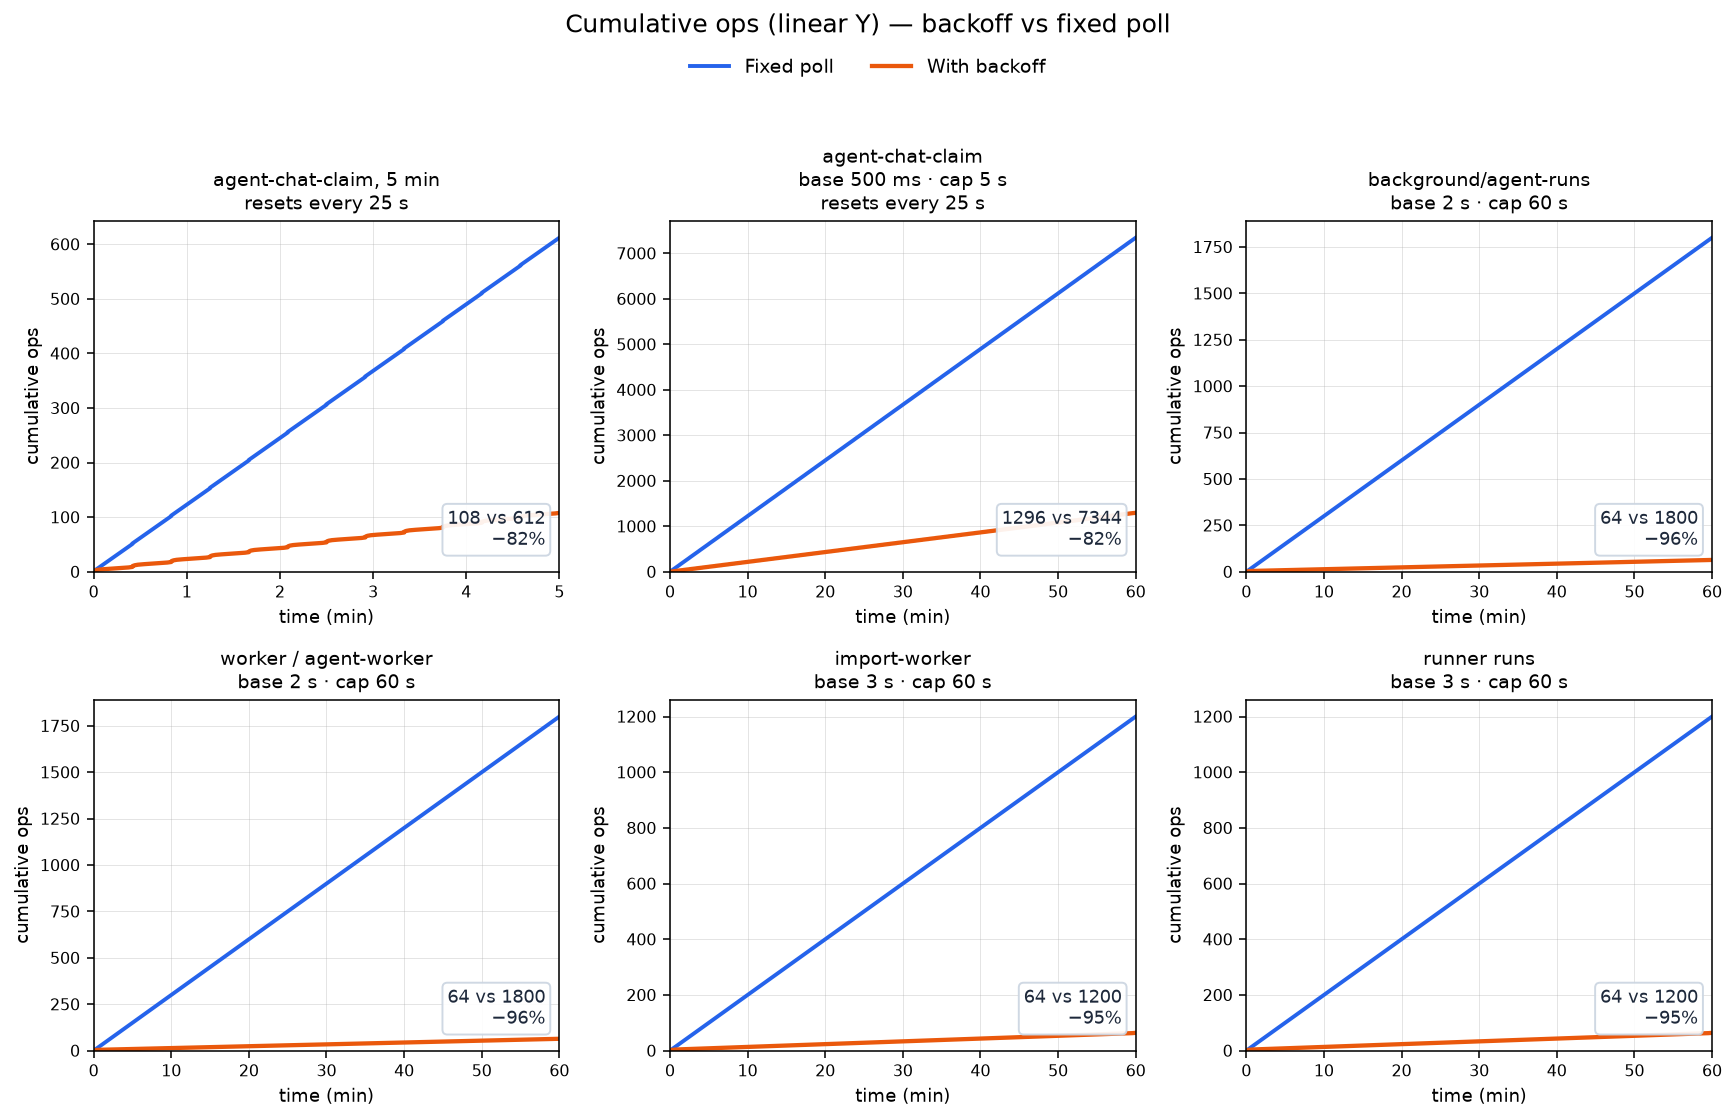
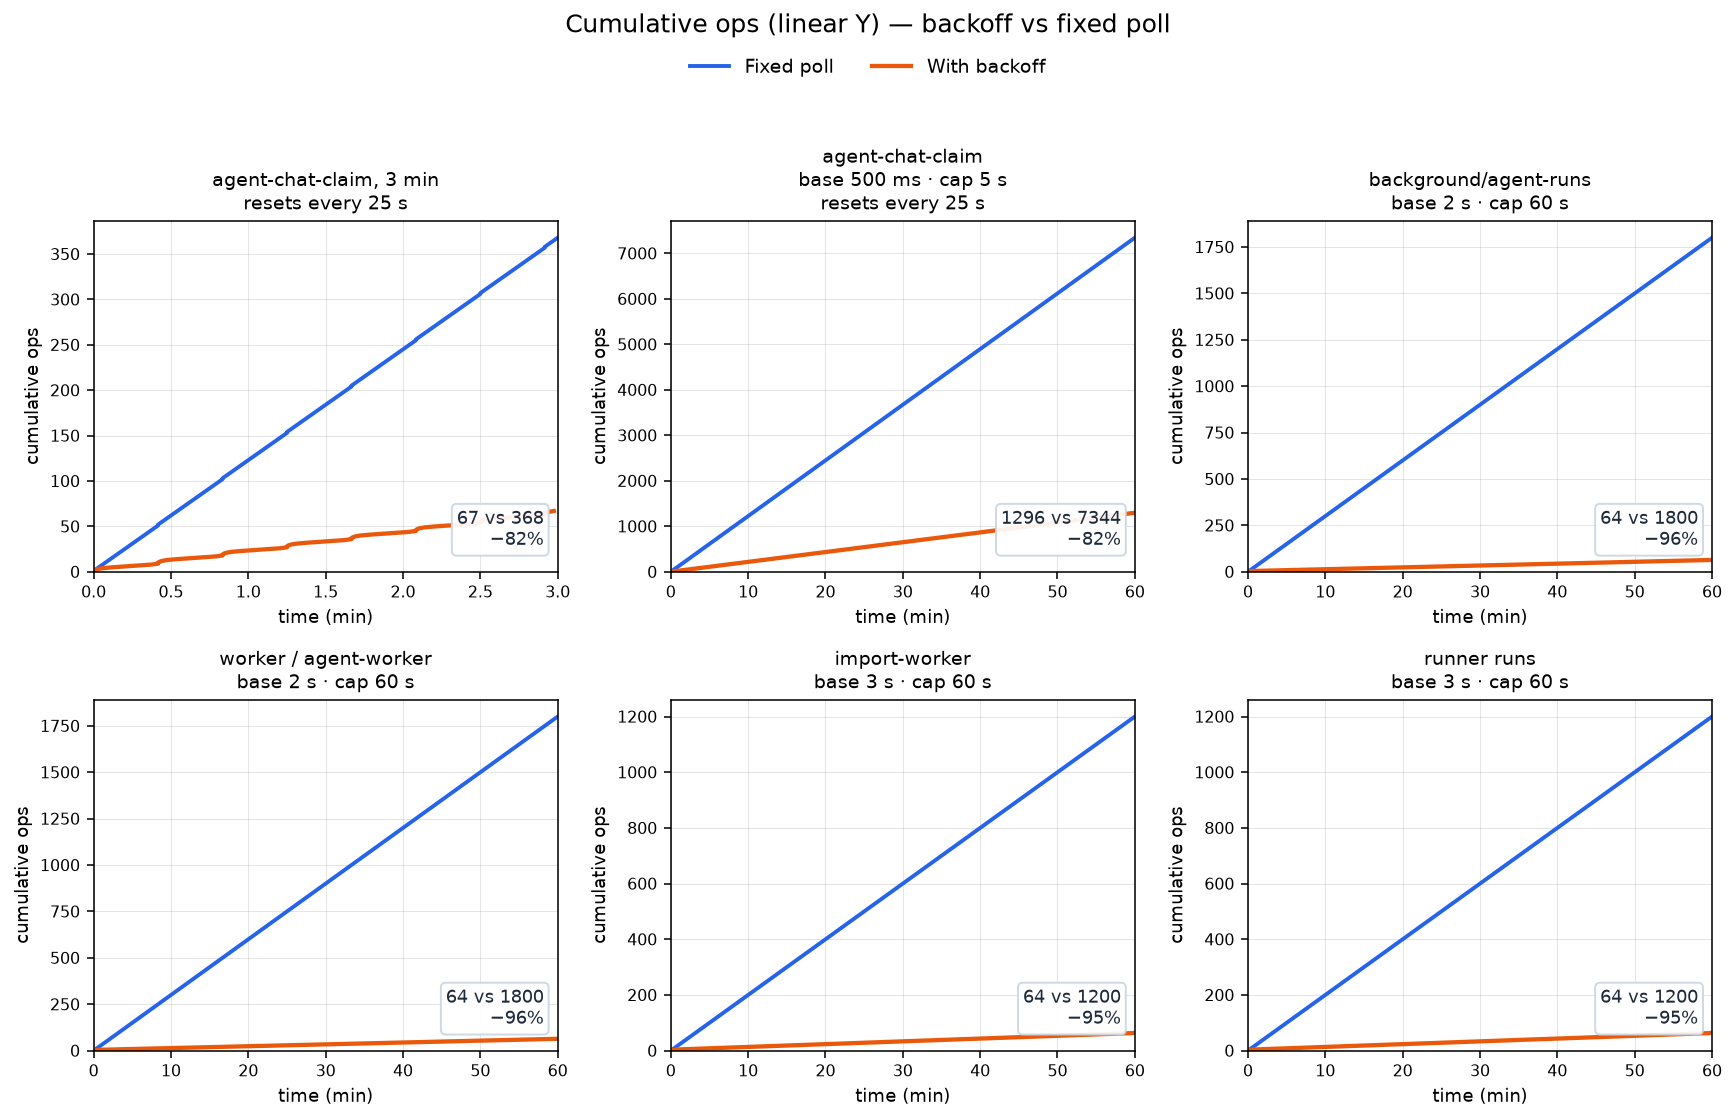
docs: zoom the chat idle chart to the first 3 minutes

diff --git a/docs/dev/plot-idle-poll.py b/docs/dev/plot-idle-poll.py
@@ -39,15 +39,15 @@ except ImportError as err:
 # the base. The other loops keep their streak across ticks, so their window is 0.
 CHAT_CLAIM_WAIT_MS = 25_000
 # title, base ms, cap ms, claim window ms, horizon ms (0 = the figure horizon).
-# The first panel is the chat claim over 5 minutes, so the 25 s reset is visible.
+# The first panel is the chat claim over 3 minutes, so the 25 s reset is visible.
 # The second is that same loop over the full horizon.
 LOOPS: list[tuple[str, int, int, int, int]] = [
     (
-        "agent-chat-claim, 5 min\nresets every 25 s",
+        "agent-chat-claim, 3 min\nresets every 25 s",
         500,
         5_000,
         CHAT_CLAIM_WAIT_MS,
-        5 * 60_000,
+        3 * 60_000,
     ),
     (
         "agent-chat-claim\nbase 500 ms · cap 5 s\nresets every 25 s",

diff --git a/docs/idle-poll/README.md b/docs/idle-poll/README.md
@@ -28,7 +28,7 @@ the [developer notes](../dev/idle-poll.md).
 ## Idle cost over one hour
 
 Blue is the old fixed interval; orange is backoff. The first panel is the chat claim
-over 5 minutes, so each 25 s reset is on the axis. The next panel is that same
+over 3 minutes, so each 25 s reset is on the axis. The next panel is that same
 loop over the full hour.
 
 ![Cumulative ops over 1 h, linear Y](cumulative-1h-linear.png)
